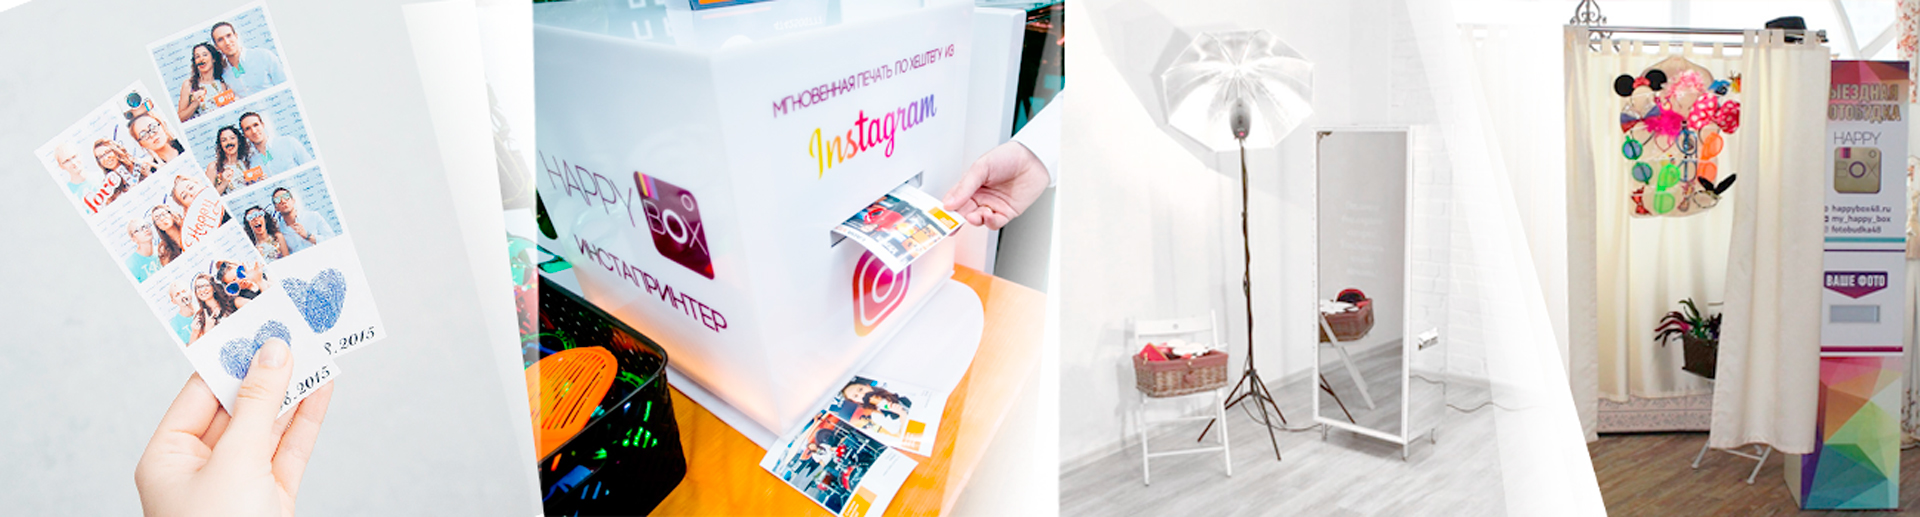
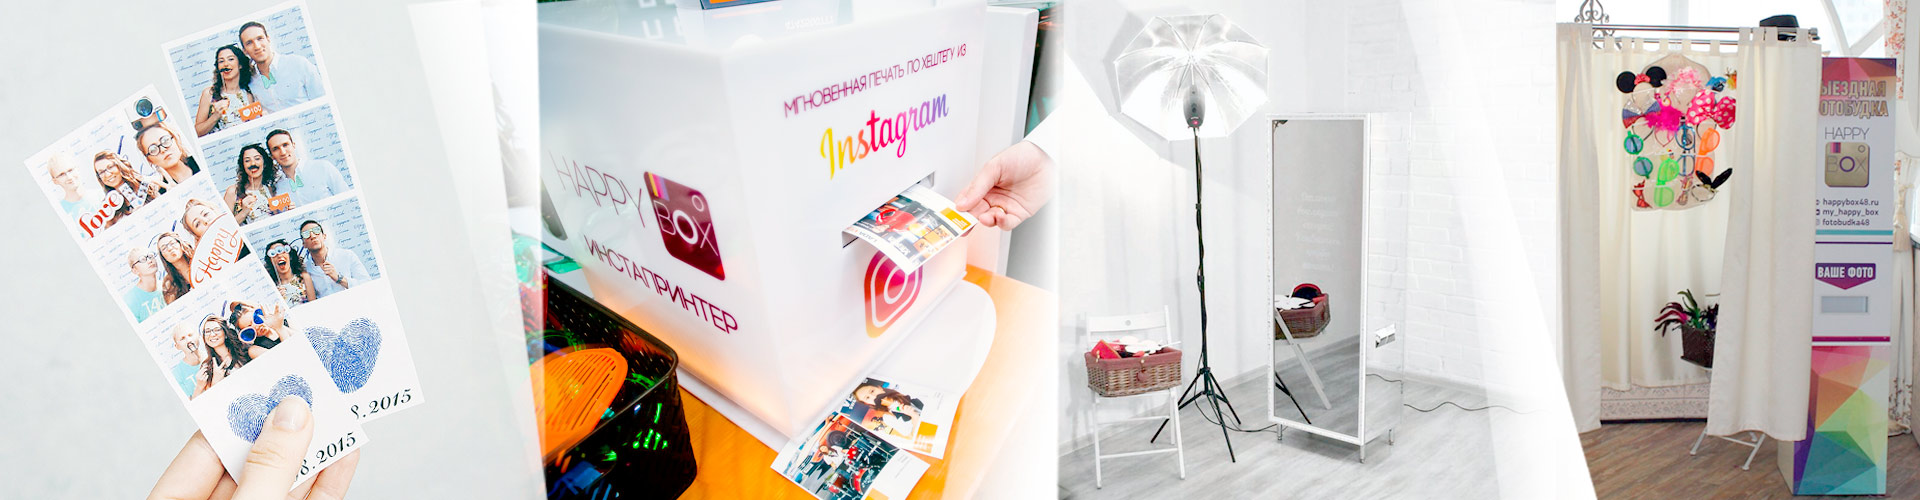
New img and design for top slider

diff --git a/index.html b/index.html
@@ -67,12 +67,11 @@
             <!-- Swiper -->
             <div class="swiper-container">
                 <div class="swiper-wrapper">
-                    <div class="swiper-slide"><img src="img/top_slider/sl00-i.jpg" alt="слайдер 1"></div>
-                    <!--
-                    <div class="swiper-slide"><img src="img/top_slider/1sl.jpg" alt="слайдер 1"></div>
-					<div class="swiper-slide"><img src="img/top_slider/2sl.jpg" alt="слайдер 2"></div>
-					<div class="swiper-slide"><img src="img/top_slider/3sl.jpg" alt="слайдер 3"></div>
-                    -->
+                    <div class="swiper-slide"><img src="img/top_slider/sl00-i.jpg" alt="слайдер 0"></div>
+                    <div class="swiper-slide"><img src="img/top_slider/sl01-i.jpg" alt="слайдер 1"></div>
+					<div class="swiper-slide"><img src="img/top_slider/sl02-i.jpg" alt="слайдер 2"></div>
+					<div class="swiper-slide"><img src="img/top_slider/sl03-i.jpg" alt="слайдер 3"></div>
+
                 </div>
                 <!-- Add Pagination -->
                 <div class="swiper-pagination"></div>
